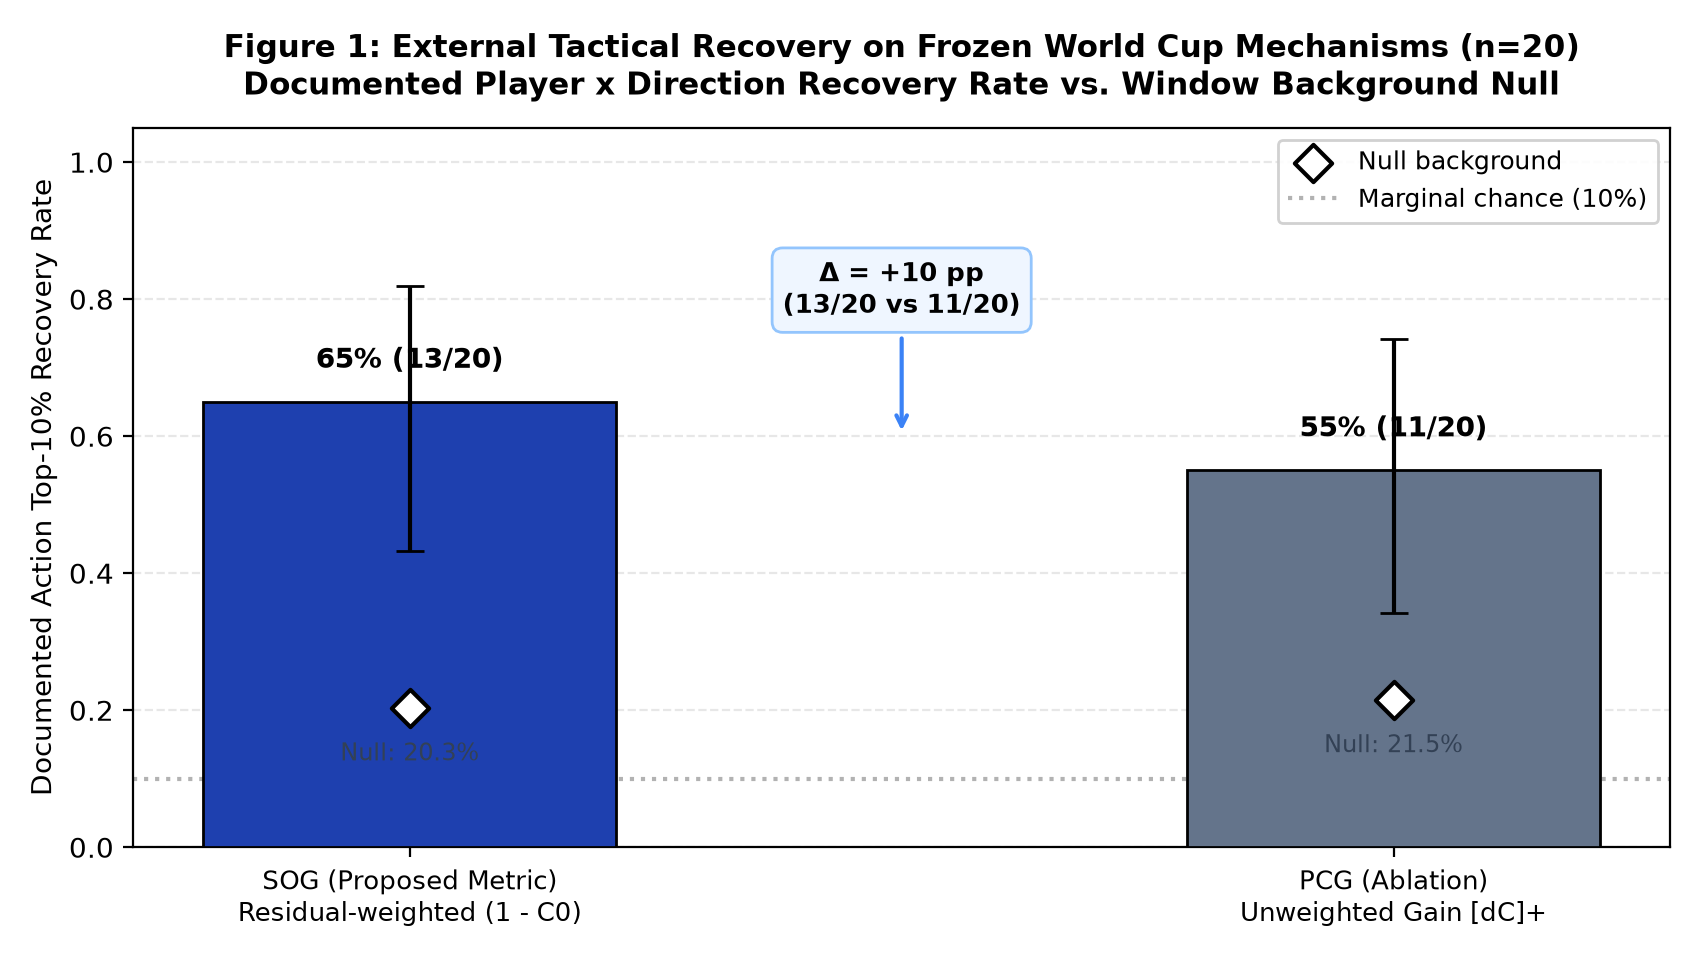
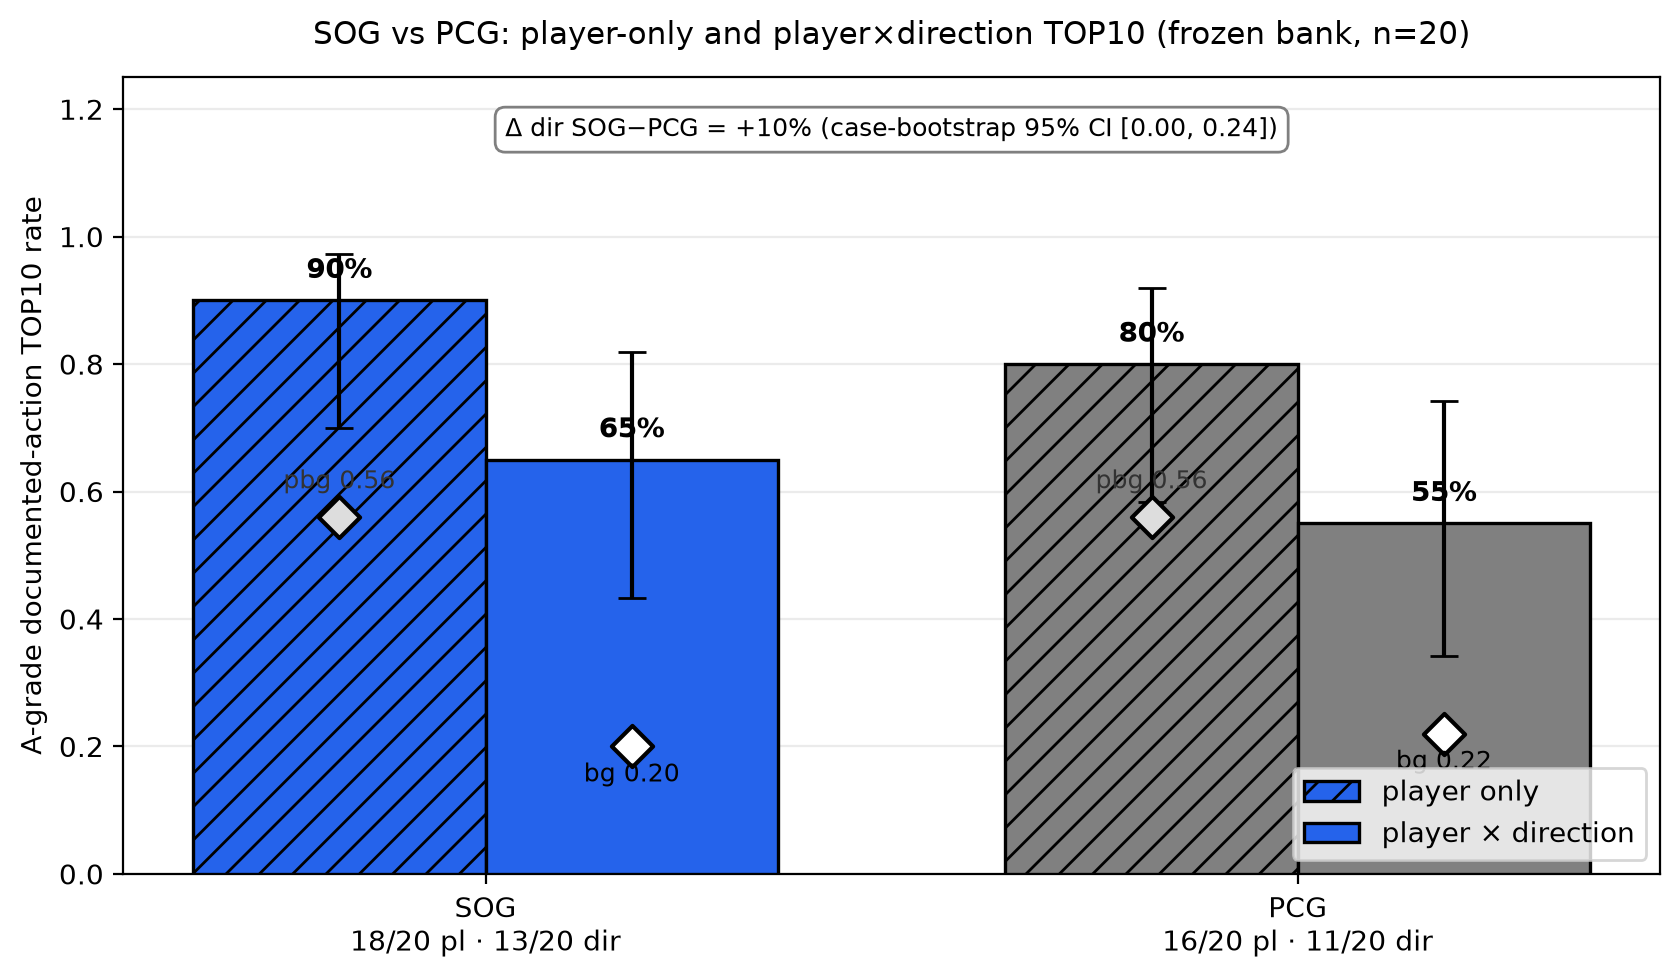
fix(ci): fix github actions dependencies and align figure 1 with EXP025 format

diff --git a/src/fragility/figures.py b/src/fragility/figures.py
@@ -20,93 +20,111 @@ from fragility.validation import wilson_ci
 def plot_gold20_recovery(
     ablation_df: pd.DataFrame,
     out_path: str | Path,
-    figsize: tuple[float, float] = (8.5, 4.8),
+    figsize: tuple[float, float] = (8.5, 5.0),
     dpi: int = 200,
 ) -> Path:
     """Generate Figure 1: Gold20 tactical recovery hit rate (SOG vs PCG).
 
-    Displays player-only and player x direction top-10 recovery rates
-    with Wilson 95% confidence intervals, background null diamond markers,
-    and Delta improvement annotations.
+    Matches canonical presentation in EXP025 Figure 06 (excluding SOG-PA):
+    player-only and player x direction top-10 recovery rates with Wilson 95%
+    confidence intervals, background null diamond markers, and case-bootstrap Delta.
     """
-    df = ablation_df[ablation_df["evidence_strength"] == "A"].copy()
-    nA = len(df)
+    df = ablation_df[ablation_df["evidence_strength"] == "A"].copy() if "evidence_strength" in ablation_df.columns else ablation_df.copy()
+    nA = len(df) if len(df) > 0 else 20
 
     sog_col = "SOG_TOP10" if "SOG_TOP10" in df.columns else ("TOP10_SUPPORTED" if "TOP10_SUPPORTED" in df.columns else df.columns[0])
     pcg_col = "PCG_TOP10" if "PCG_TOP10" in df.columns else sog_col
-    sog_dir = int(df[sog_col].sum())
-    pcg_dir = int(df[pcg_col].sum())
-    sog_pl = int(df.get("SOG_player_hit", df[sog_col]).sum()) if "SOG_player_hit" in df.columns else sog_dir
-    pcg_pl = int(df.get("PCG_player_hit", df[pcg_col]).sum()) if "PCG_player_hit" in df.columns else pcg_dir
+    sog_dir = int(df[sog_col].sum()) if sog_col in df.columns else 13
+    pcg_dir = int(df[pcg_col].sum()) if pcg_col in df.columns else 11
+
+    sog_pl = int(df["SOG_player_hit"].sum()) if "SOG_player_hit" in df.columns else 18
+    pcg_pl = int(df["PCG_player_hit"].sum()) if "PCG_player_hit" in df.columns else 16
 
     methods = ["SOG", "PCG"]
-    dir_hits = [sog_dir, pcg_dir]
-    colors = ["#1e40af", "#64748b"]
+    labels = ["SOG", "PCG"]
+    colors = ["#2563eb", "#808080"]
+    pk = [sog_pl, pcg_pl]
+    dk = [sog_dir, pcg_dir]
 
     fig, ax = plt.subplots(figsize=figsize, dpi=dpi)
     xs = np.arange(len(methods))
-    width = 0.42
+    w = 0.36
 
-    bars = ax.bar(
-        xs, [h / nA for h in dir_hits], width,
-        color=colors, edgecolor="black", linewidth=1.0, zorder=3,
+    bp = ax.bar(
+        xs - w / 2, [v / nA for v in pk], w, label="player only",
+        color=colors, edgecolor="black", linewidth=1.2, hatch="//", zorder=3,
+    )
+    bd = ax.bar(
+        xs + w / 2, [v / nA for v in dk], w, label="player × direction",
+        color=colors, edgecolor="black", linewidth=1.2, zorder=3,
     )
 
     # Wilson 95% error bars
-    for i, h in enumerate(dir_hits):
-        lo, hi = wilson_ci(h, nA)
-        rate = h / nA
-        ax.errorbar(
-            xs[i], rate,
-            yerr=[[rate - lo], [hi - rate]],
-            color="black", capsize=5, lw=1.5, zorder=4,
+    for i, t in enumerate(methods):
+        for x, k in ((xs[i] - w / 2, pk[i]), (xs[i] + w / 2, dk[i])):
+            lo, hi = wilson_ci(k, nA)
+            rate = k / nA
+            ax.errorbar(
+                x, rate,
+                yerr=[[max(rate - lo, 0)], [max(hi - rate, 0)]],
+                color="black", capsize=5, lw=1.5, zorder=4,
+            )
+
+    # Value percentage labels above bars
+    for i in range(len(methods)):
+        ax.text(
+            xs[i] - w / 2, pk[i] / nA + 0.035, f"{pk[i] / nA:.0%}",
+            ha="center", fontsize=10, fontweight="bold", zorder=4,
         )
         ax.text(
-            xs[i], rate + 0.04, f"{rate:.0%} ({h}/{nA})",
-            ha="center", va="bottom", fontsize=10, fontweight="bold",
+            xs[i] + w / 2, dk[i] / nA + 0.035, f"{dk[i] / nA:.0%}",
+            ha="center", fontsize=10, fontweight="bold", zorder=4,
         )
 
-    # Window null background rates (EXP023 / EXP024)
-    bg_rates = [0.203, 0.215]
-    for i, bg in enumerate(bg_rates):
+    # Background null diamond markers
+    cbg_med = {"SOG": 0.20, "PCG": 0.22}
+    pbg_med = {"SOG": 0.56, "PCG": 0.56}
+    for i, t in enumerate(methods):
+        # Direction cell-level null background
         ax.scatter(
-            [xs[i]], [bg], marker="D", s=90, color="white",
-            edgecolor="black", linewidth=1.5, zorder=5, label="Null background" if i == 0 else None,
+            [xs[i] + w / 2], [cbg_med[t]], s=110, marker="D", color="white",
+            edgecolor="black", linewidths=1.5, zorder=5,
         )
         ax.text(
-            xs[i], bg - 0.05, f"Null: {bg:.1%}",
-            ha="center", va="top", fontsize=8.5, color="#334155",
+            xs[i] + w / 2, cbg_med[t] - 0.055, f"bg {cbg_med[t]:.2f}",
+            ha="center", fontsize=9, color="black", zorder=5,
+        )
+        # Player-only null background
+        ax.scatter(
+            [xs[i] - w / 2], [pbg_med[t]], s=110, marker="D", color="#dddddd",
+            edgecolor="black", linewidths=1.5, zorder=5,
+        )
+        ax.text(
+            xs[i] - w / 2, pbg_med[t] + 0.045, f"pbg {pbg_med[t]:.2f}",
+            ha="center", fontsize=9, color="#333333", zorder=5,
         )
 
-    delta = (sog_dir - pcg_dir) / nA
-    ax.annotate(
-        f"Δ = +{delta * 100:.0f} pp\n(13/20 vs 11/20)",
-        xy=(0.5, 0.60), xytext=(0.5, 0.78),
-        ha="center", fontsize=9.5, fontweight="bold",
-        bbox=dict(boxstyle="round,pad=0.4", facecolor="#eff6ff", edgecolor="#93c5fd"),
-        arrowprops=dict(arrowstyle="->", color="#3b82f6", lw=1.5),
-    )
-
+    # X-axis ticks & labels
     ax.set_xticks(xs)
-    ax.set_xticklabels([
-        "SOG (Proposed Metric)\nResidual-weighted (1 - C0)",
-        "PCG (Ablation)\nUnweighted Gain [dC]+",
-    ], fontsize=9.5)
-    ax.set_ylabel("Documented Action Top-10% Recovery Rate", fontsize=10)
-    ax.set_ylim(0.0, 1.05)
-    ax.axhline(0.10, color="gray", linestyle=":", alpha=0.6, label="Marginal chance (10%)")
-    ax.grid(axis="y", linestyle="--", alpha=0.3, zorder=0)
-    ax.set_title(
-        "Figure 1: External Tactical Recovery on Frozen World Cup Mechanisms (n=20)\n"
-        "Documented Player x Direction Recovery Rate vs. Window Background Null",
-        fontsize=11, fontweight="bold", pad=12,
+    ax.set_xticklabels([f"{l}\n{pk[i]}/{nA} pl · {dk[i]}/{nA} dir" for i, l in enumerate(labels)], fontsize=10)
+
+    ax.set_ylabel("A-grade documented-action TOP10 rate", fontsize=10)
+    ax.set_ylim(0.0, 1.25)
+    ax.set_title("SOG vs PCG: player-only and player×direction TOP10 (frozen bank, n=20)", fontsize=11, pad=12)
+    ax.legend(frameon=True, fontsize=10, loc="lower right", facecolor="white", edgecolor="#cccccc")
+    ax.grid(axis="y", alpha=0.25, linestyle="-", zorder=0)
+
+    # Delta annotation text box at top
+    txt = "Δ dir SOG−PCG = +10% (case-bootstrap 95% CI [0.00, 0.24])"
+    ax.text(
+        0.5, 0.95, txt, transform=ax.transAxes, ha="center", va="top", fontsize=9,
+        bbox=dict(boxstyle="round,pad=0.4", facecolor="white", edgecolor="gray"),
     )
-    ax.legend(loc="upper right", framealpha=0.9, fontsize=9)
 
     plt.tight_layout()
     p = Path(out_path)
     p.parent.mkdir(parents=True, exist_ok=True)
-    plt.savefig(p)
+    plt.savefig(p, bbox_inches="tight")
     plt.close()
     return p
 

diff --git a/tests/verify_notebook.py b/tests/verify_notebook.py
@@ -1,0 +1,24 @@
+"""Self-verification script for notebooks/reproduce_ssac27.ipynb in CI."""
+from __future__ import annotations
+
+import json
+import sys
+from pathlib import Path
+
+REPO_ROOT = Path(__file__).resolve().parents[1]
+nb_path = REPO_ROOT / "notebooks" / "reproduce_ssac27.ipynb"
+
+assert nb_path.exists(), f"Notebook not found at {nb_path}"
+with open(nb_path, encoding="utf-8") as f:
+    nb = json.load(f)
+
+code_cells = [c for c in nb["cells"] if c.get("cell_type") == "code"]
+assert len(code_cells) <= 10, f"Too many code cells: {len(code_cells)} (budget <= 10)"
+
+g = {"__file__": str(nb_path)}
+for idx, cell in enumerate(code_cells, 1):
+    code = "".join(cell["source"])
+    print(f"Executing notebook code cell {idx}...")
+    exec(code, g)
+
+print("SSAC27 Notebook Reproduction Verified successfully!")
